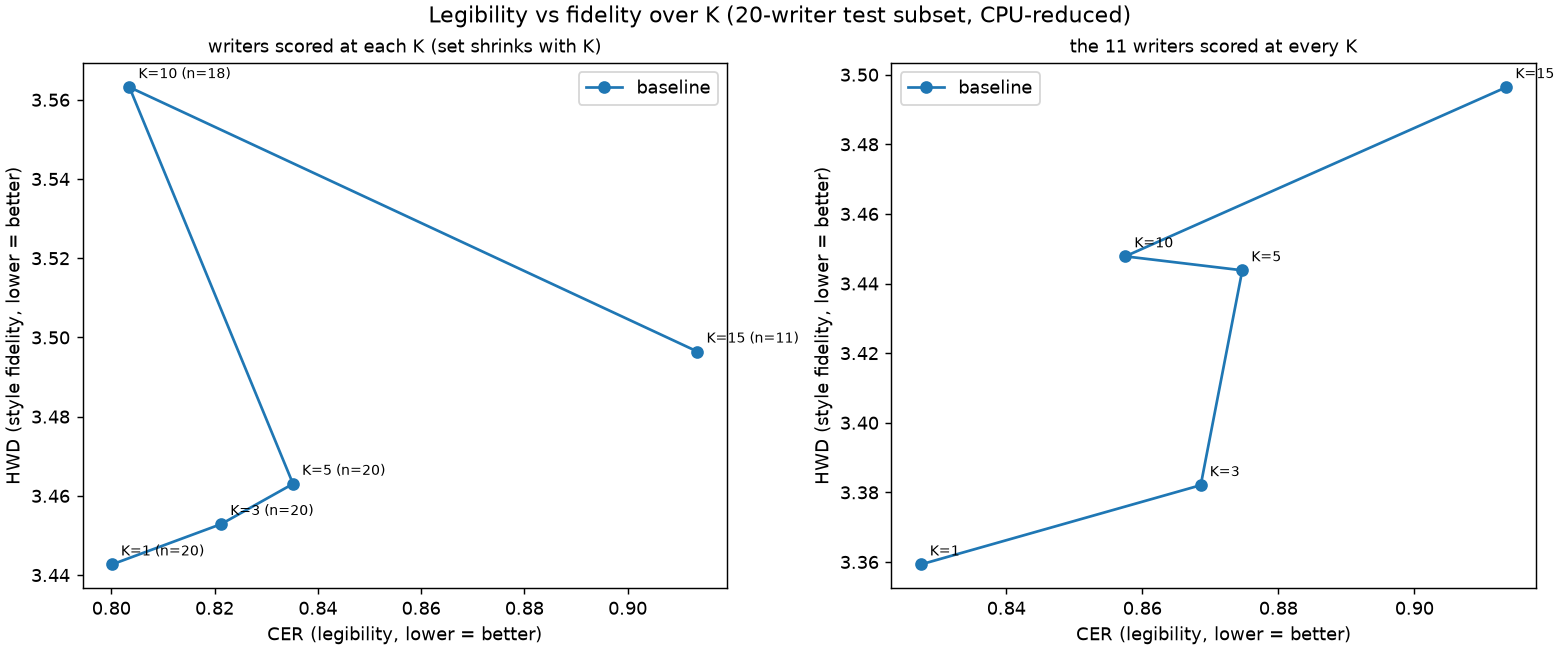
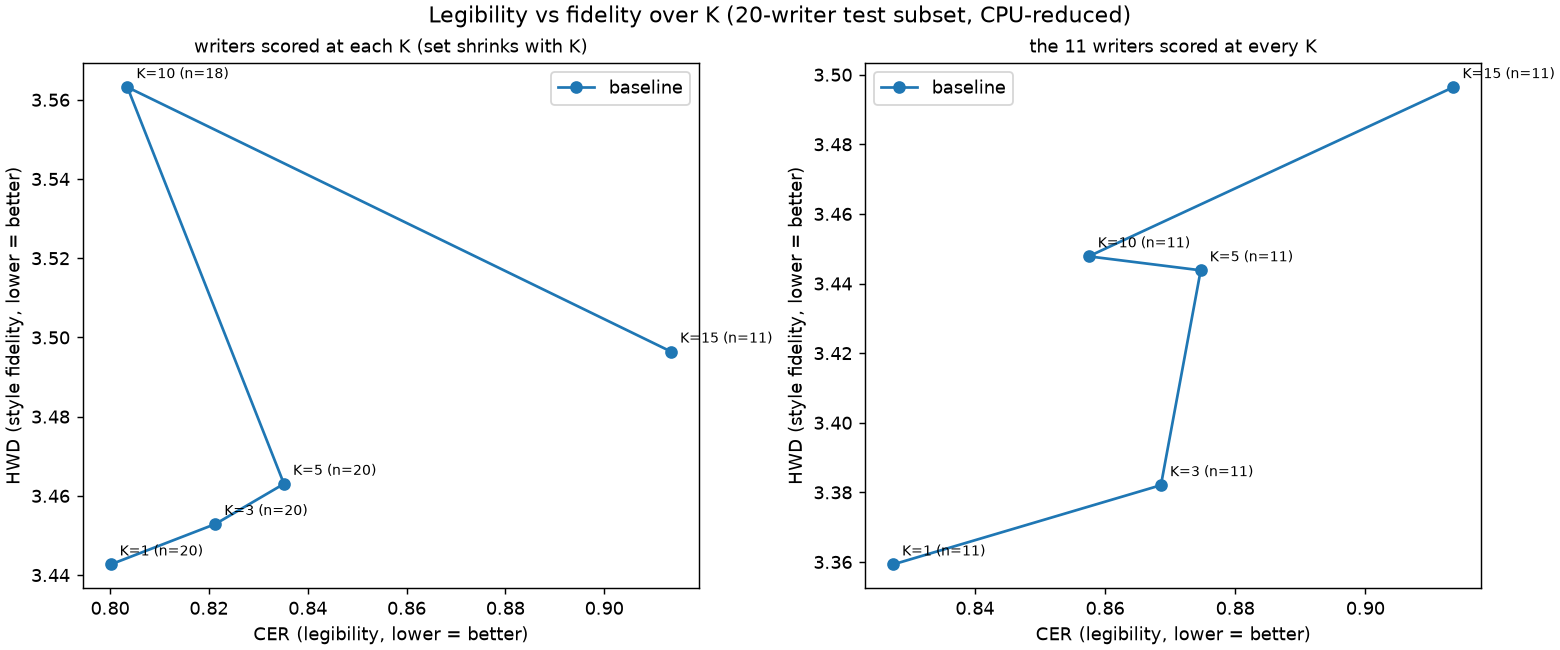
HWD: move input to the backbone's device (fixes Colab VATr protocol failure); log writer tracebacks
HWDFeatures.line fed a CPU tensor to a backbone the official HWDScore puts on cuda, so every
writer failed with "Input type (torch.FloatTensor) and weight type (torch.cuda.FloatTensor)".
The input now follows the backbone's parameter device and the token sum is .cpu()'d before numpy.
CPU numerics unchanged (writers 168/172, baseline K=1, bit-identical to the pre-fix code).

- protocol_cli: log the full traceback when a writer fails
- tests/test_device_handling.py: meta-device guard reproduces the mismatch class (fails on old code)
- results/vatr_reproduction_colab_20261025.json: transcribed Colab figures, provenance labelled; GATE 3 stays OPEN
- plot_k_sweep: n_writers beside every point on both panels

diff --git a/tests/test_device_handling.py b/tests/test_device_handling.py
@@ -1,0 +1,115 @@
+"""Device-mismatch class on the protocol path (Colab: "Input type (torch.FloatTensor) and weight type
+(torch.cuda.FloatTensor) should be the same"). No GPU here, so every instrument is moved to the 'meta' device and
+guarded: a forward whose input tensor is not on its weights' device raises the same RuntimeError CUDA would. The guard
+swaps the (shape-only) meta output for a CPU tensor so the rest of the pipeline can run on one writer."""
+from types import SimpleNamespace
+
+import numpy as np
+import pytest
+import torch
+from torch import nn
+from torchvision import transforms as T
+
+from src.evaluation import hwd_metric
+from src.evaluation import protocol as P
+from src.evaluation.writer_id import TrainedWriterEmbedder
+from src.recognition.crnn import CRNN, Recognizer
+from src.writer_id.model import WriterEncoder
+
+CHARSET = list("abcdefghijklmnopqrstuvwxyz ")
+TEXTS = ["the quick brown fox jumps", "over the lazy dog again", "pack my box with five dozen",
+         "liquor jugs sphinx of black quartz", "how vexingly quick daft zebras", "waltz bad nymph for quick"]
+
+
+def guard(module: nn.Module, device: str = "meta") -> nn.Module:
+    """Put `module` on `device` and make a wrong-device input fail like CUDA does; outputs come back on the CPU."""
+    module.to(device).eval()
+
+    def check(mod, args):
+        dev = next(mod.parameters()).device
+        for a in args:
+            if isinstance(a, torch.Tensor) and a.device != dev:
+                raise RuntimeError(f"Input type ({a.device}) and weight type ({dev}) should be the same")
+
+    def to_cpu(mod, args, out):
+        g = torch.Generator().manual_seed(0)
+        return torch.rand(out.shape, generator=g) + 0.1
+
+    module.register_forward_pre_hook(check)
+    module.register_forward_hook(to_cpu)
+    return module
+
+
+class _Tokens(nn.Module):                    # stands in for the official AdjustDims: (B, C, H, W) -> (B, H*W, C)
+    def forward(self, x):
+        return x.flatten(2).transpose(1, 2)
+
+
+class _StubHWDScore:
+    """Same device behaviour as the official HWDScore: the backbone is moved to the compute device at construction."""
+
+    def __init__(self, height=32):
+        self.backbone = SimpleNamespace(model=nn.Sequential(nn.Conv2d(3, 8, 3), _Tokens()))
+        guard(self.backbone.model)
+        self.transforms = T.Compose([T.Resize((height, 64)), T.ToTensor()])
+
+
+class _DS:
+    samples = [SimpleNamespace(sample_id=f"007-{i:02d}", writer_id="007", transcription=t) for i, t in enumerate(TEXTS)]
+
+    def read_native(self, i):
+        img = np.full((64, 200), 255, np.uint8)
+        img[20:40, 20:180] = 0
+        return img
+
+
+class _Backend:
+    name = "fake"
+
+    def generate(self, refs, text):
+        img = np.full((64, 100), 255, np.uint8)
+        img[20:40, 10:90] = 0
+        return img
+
+
+def _scorer(monkeypatch):
+    monkeypatch.setattr(hwd_metric, "_official", lambda: _StubHWDScore)
+    recognizer = Recognizer(guard(CRNN(len(CHARSET), hidden=16, widths=(4, 4, 4, 4, 4))), CHARSET)
+    embedder = object.__new__(TrainedWriterEmbedder)             # real embed(); only the weights are random
+    embedder.encoder = guard(WriterEncoder((4, 4, 4, 4), (1, 1, 1, 1)))
+    embedder._height = 64
+    embedder._eval_cfg = {"mode": "windows", "window_width": 64, "window_stride": 32, "max_windows": 4}
+    return P.Scorer(recognizer, embedder, hwd_metric.HWDFeatures(), 64)
+
+
+CFG = {"targets_per_writer": 4, "min_reference_letters": 12, "max_target_chars": 40}
+
+
+@pytest.mark.parametrize("backend", [None, _Backend()], ids=["real_row", "backend_row"])
+def test_one_writer_scores_with_every_instrument_on_a_non_cpu_device(monkeypatch, backend):
+    row = P.run_writer(_scorer(monkeypatch), backend, _DS(), _DS.samples, 2, CFG, 1337, "007")
+    assert row is not None and row["all"]["n_lines"] >= 1
+    assert np.isfinite(row["all"]["hwd"]) and np.isfinite(row["all"]["wid_dist"])
+
+
+def test_vatr_backend_sends_style_and_text_tensors_to_its_device():
+    from src.generator.vatr_backend import NUM_STYLE, STYLE_H, STYLE_MAX_W, VATrBackend
+    seen = {}
+
+    class Converter:
+        def encode(self, words):
+            return torch.ones(sum(map(len, words)), dtype=torch.int), torch.tensor([len(w) for w in words]), None
+
+    class Model:
+        netconverter = Converter()
+
+        def _generate_fakes(self, style, enc, lens, pos):
+            seen["style"], seen["enc"] = style.device, enc.device
+            return [np.zeros((STYLE_H, 8), np.float32) for _ in lens]
+
+    b = object.__new__(VATrBackend)
+    b.model, b.device, b._torch, b._cached = Model(), "meta", torch, None
+    b.alphabet, b.dropped_chars = set("abcdefghijklmnopqrstuvwxyz"), {}
+    b._style = lambda refs: torch.zeros(1, NUM_STYLE, STYLE_H, STYLE_MAX_W).to(b.device)
+    assert b.generate([], "the fox") is not None
+    assert seen == {"style": torch.device("meta"), "enc": torch.device("meta")}

diff --git a/src/evaluation/hwd_metric.py b/src/evaluation/hwd_metric.py
@@ -46,10 +46,10 @@ class HWDFeatures:
     @torch.inference_mode()
     def line(self, gray: np.ndarray) -> tuple[np.ndarray, int]:
         img = Image.fromarray(np.asarray(gray, np.uint8)).convert("RGB")
-        x = self.transforms(img).unsqueeze(0)
-        _, _, h, w = x.shape
+        dev = next(self.backbone.model.parameters()).device   # the official HWDScore moves the backbone to cuda if present
+        x = self.transforms(img).unsqueeze(0).to(dev)
         tokens = self.backbone.model(x)[0]                    # (H'*W', 512): official AdjustDims flattening
-        return tokens.sum(0).numpy().astype(np.float64), int(tokens.shape[0])
+        return tokens.sum(0).cpu().numpy().astype(np.float64), int(tokens.shape[0])
 
 
 def set_mean(entries) -> np.ndarray:

diff --git a/scripts/plot_k_sweep.py b/scripts/plot_k_sweep.py
@@ -82,7 +82,8 @@ def main() -> int:
             x, y = [r[f"cer_{suffix}"] for r in rows], [r[f"hwd_{suffix}"] for r in rows]
             ax.plot(x, y, "-o", color=color, label=backend)
             for r, xi, yi in zip(rows, x, y):
-                ax.annotate(f"K={r['K']}" + (f" (n={r['writers_scored']})" if suffix == "all_writers" else ""),
+                n = r["writers_scored"] if suffix == "all_writers" else r["common_writers"]
+                ax.annotate(f"K={r['K']} (n={n})",
                             (xi, yi), textcoords="offset points", xytext=(5, 5), fontsize=8)
             ax.set_xlabel("CER (legibility, lower = better)")
             ax.set_ylabel("HWD (style fidelity, lower = better)")

diff --git a/src/evaluation/protocol_cli.py b/src/evaluation/protocol_cli.py
@@ -88,7 +88,7 @@ def run_protocol_cli(args) -> int:
                         r = P.run_writer(scorer, backend, dataset, by_writer[w], K, pcfg, pc["seed"], w)
                         break
                     except Exception as e:           # noqa: BLE001 -- recorded, never silently dropped
-                        logger.warning("writer %s failed (attempt %d): %r", w, attempt + 1, e)
+                        logger.warning("writer %s failed (attempt %d): %r", w, attempt + 1, e, exc_info=True)
                         writer_errors.setdefault(w, []).append(f"{type(e).__name__}: {e}")
                         if not P.is_out_of_memory(e):
                             break
